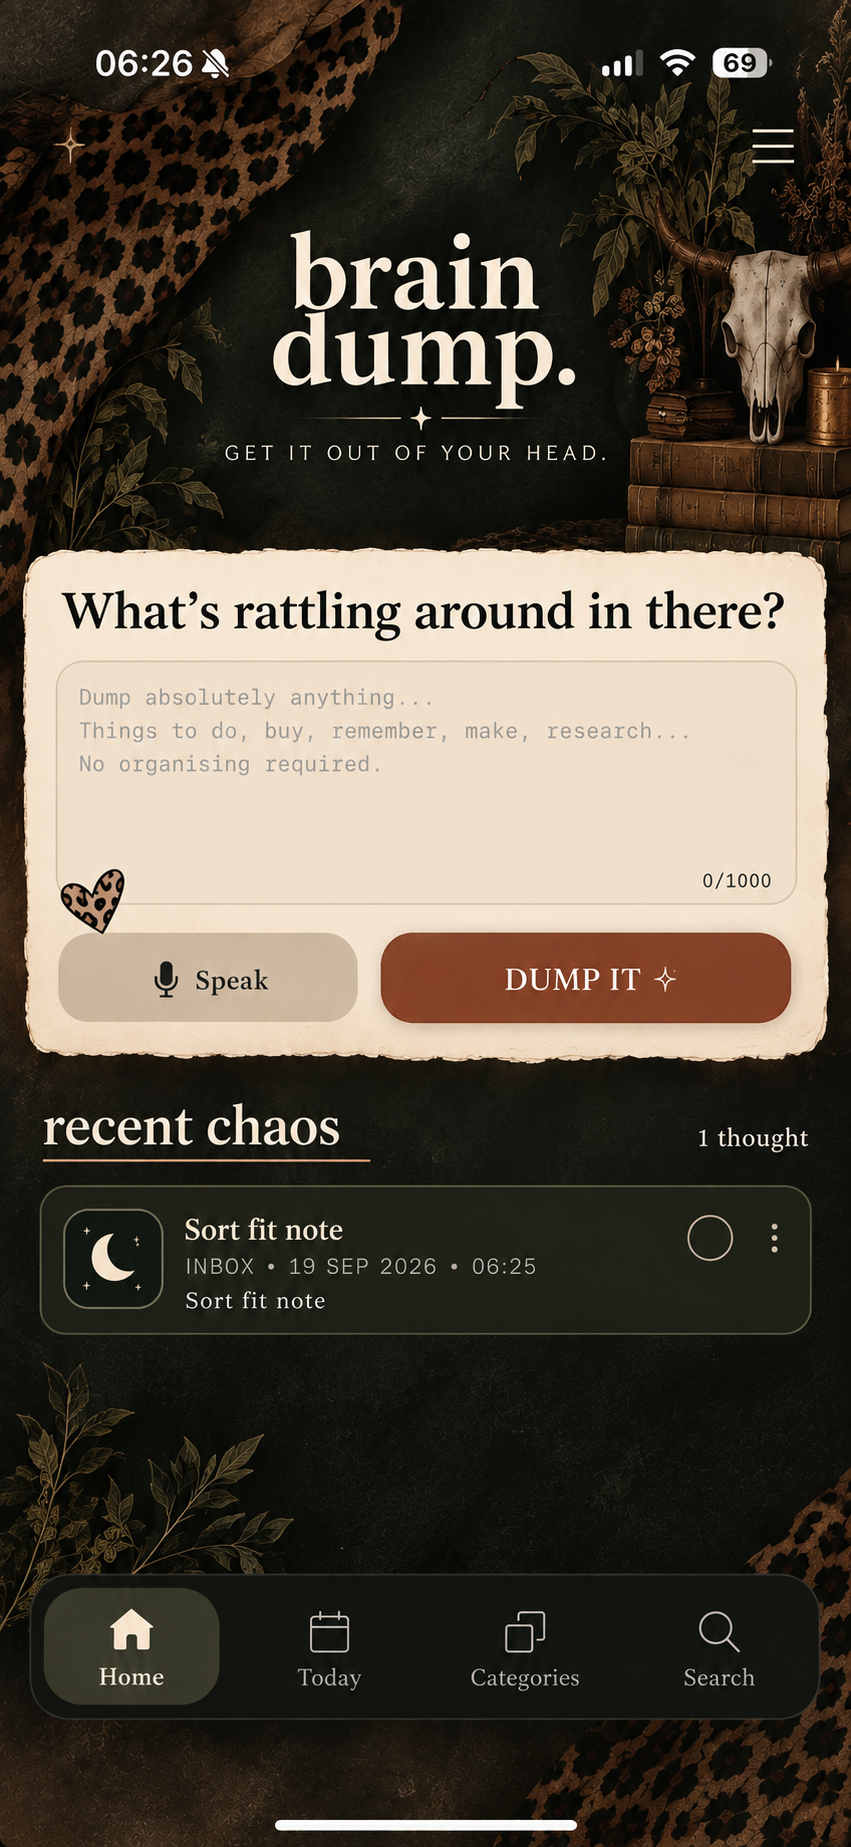
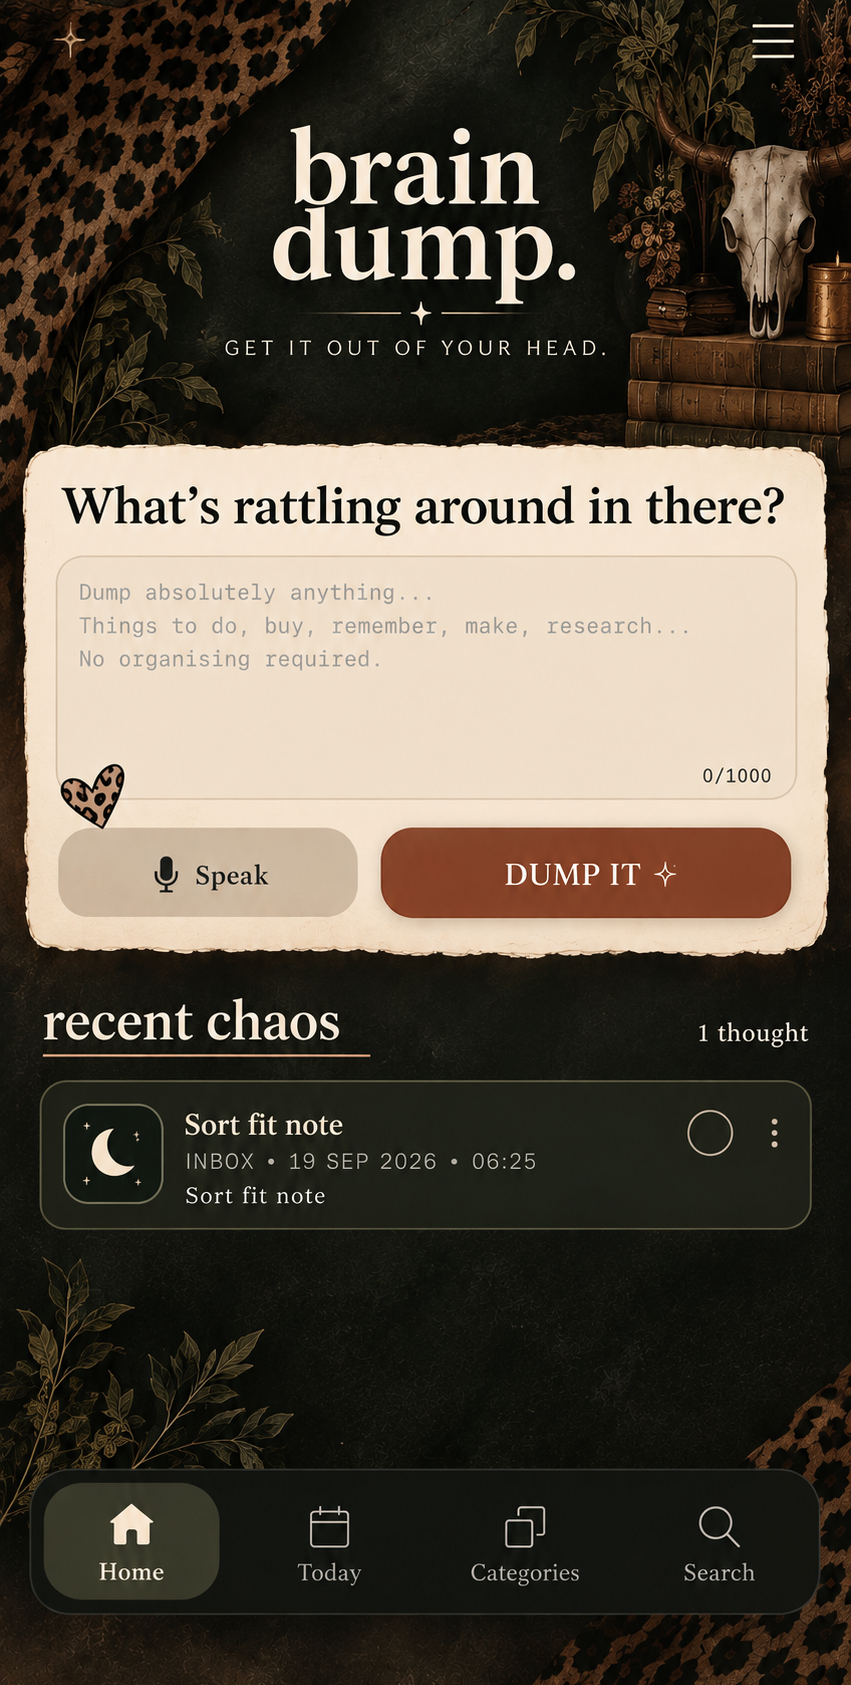
Add files via upload

diff --git a/index.html b/index.html
@@ -3,11 +3,11 @@
 <meta name="theme-color" content="#101610"><meta name="apple-mobile-web-app-capable" content="yes"><title>Brain Dump</title>
 <style>
 *{box-sizing:border-box}html,body{margin:0;background:#090b09;min-height:100%;font-family:-apple-system,BlinkMacSystemFont,"Segoe UI",sans-serif}
-.stage{position:relative;width:min(100vw,430px);aspect-ratio:832/1808;margin:auto;background:url("approved-home.png") top center/100% 100% no-repeat;overflow:hidden}
-textarea{position:absolute;left:6.8%;top:35.8%;width:86.8%;height:13.2%;border:0;background:rgba(250,241,225,.93);border-radius:17px;padding:13px 14px;color:#31261f;font:15px/1.45 inherit;resize:none;outline:none}
+.stage{position:relative;width:min(100vw,430px);aspect-ratio:851/1685;margin:auto;background:url("approved-home.png") top center/100% 100% no-repeat;overflow:hidden}
+textarea{position:absolute;left:6.8%;top:35.8%;width:86.8%;height:13.2%;border:0;background:transparent;border-radius:17px;padding:13px 14px;color:transparent;caret-color:#31261f;font:15px/1.45 inherit;resize:none;outline:none}
 #speak,#dumpBtn{position:absolute;top:50.45%;height:5.1%;border:0;background:transparent;color:transparent}
 #speak{left:7%;width:35%}#dumpBtn{left:45%;width:48%}
-#recent{position:absolute;left:4.8%;top:64.3%;width:90.5%;height:8.3%;display:grid;grid-template-columns:52px 1fr 36px;gap:10px;align-items:center;padding:8px 12px;color:#f4e8d0;background:rgba(20,29,22,.96);border:1px solid #766b4c;border-radius:18px}
+#recent{display:none!important;position:absolute;left:4.8%;top:64.3%;width:90.5%;height:8.3%;display:grid;grid-template-columns:52px 1fr 36px;gap:10px;align-items:center;padding:8px 12px;color:#f4e8d0;background:rgba(20,29,22,.96);border:1px solid #766b4c;border-radius:18px}
 #recent.empty{display:none}.ico{width:46px;height:46px;border:1px solid #887a55;border-radius:13px;display:grid;place-items:center;font-size:22px}.title{font:600 16px Georgia,serif}.meta{font-size:10px;letter-spacing:.09em;color:#bdb09c;margin-top:5px;text-transform:uppercase}.check{appearance:none;width:25px;height:25px;border:1.5px solid #d9c8ad;border-radius:50%}.check:checked{background:#9d4c2d;box-shadow:inset 0 0 0 5px #182019}
 .count{position:absolute;right:7%;top:61.5%;color:#f4e8d0;font:13px Georgia,serif}
 nav button{position:absolute;bottom:5.2%;height:6%;border:0;background:transparent;color:transparent}#home{left:5%;width:21%}#today{left:27%;width:21%}#cats{left:49%;width:24%}#search{left:74%;width:21%}
@@ -15,8 +15,8 @@ nav button{position:absolute;bottom:5.2%;height:6%;border:0;background:transpare
 .toast{position:fixed;z-index:30;top:30px;left:50%;transform:translateX(-50%);background:#17231c;color:#fff;padding:10px 14px;border-radius:99px;display:none;font-size:13px}
 @media(max-width:360px){textarea{font-size:13px}}
 </style></head><body>
-<main class="stage"><textarea id="dump" maxlength="1000" placeholder="Dump absolutely anything...&#10;Things to do, buy, remember, make, research...&#10;No organising required."></textarea>
-<button id="speak" aria-label="Speak">Speak</button><button id="dumpBtn" aria-label="Dump it">Dump it</button><div class="count" id="count"></div>
+<main class="stage"><textarea id="dump" maxlength="1000" placeholder=""></textarea>
+<button id="speak" aria-label="Speak">Speak</button><button id="dumpBtn" aria-label="Dump it">Dump it</button><div class="count" id="count" style="display:none"></div>
 <section id="recent" class="empty"></section>
 <nav><button id="home">Home</button><button id="today">Today</button><button id="cats">Categories</button><button id="search">Search</button></nav></main>
 <div class="sorting" id="sorting"><div><div>☾ ✦</div><h2>sorting<br>the chaos…</h2><p>Breaking it down, finding the right homes<br>and making sense of the madness.</p></div></div><div class="toast" id="toast"></div>
